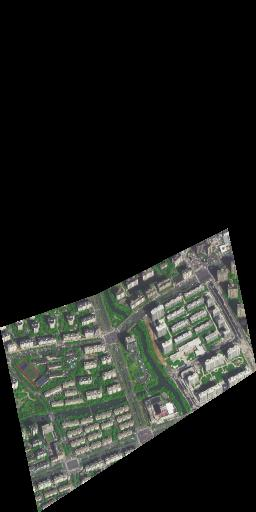
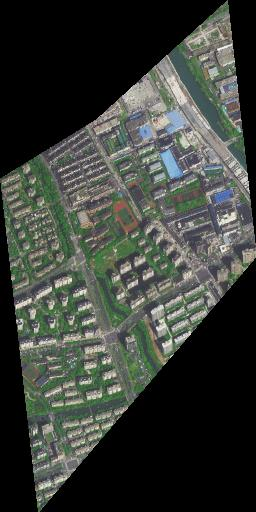
improve masked image

diff --git a/v2/img-crawl.py b/v2/img-crawl.py
@@ -131,10 +131,7 @@ def parse_aoi_file(file_path):
 
 def get_bounding_square(polygon):
     minx, miny, maxx, maxy = polygon.bounds
-    delta_x = maxx - minx
-    delta_y = maxy - miny
-    delta = max(delta_x, delta_y)
-    return box(minx, miny, minx + delta, miny + delta)
+    return box(minx, miny, maxx, maxy)
 
 
 def stitch_tiles(tile_paths, grid_size):
@@ -193,8 +190,8 @@ def main():
     for aoi in aois:
         square = aoi['bounding_square']
         lon_start, lat_start, lon_stop, lat_stop = square.bounds
-        tile_paths, grid_size = download_tiles(aoi['address'], zoom, lat_start, lat_stop, lon_start, lon_stop,
-                                               satellite)
+        tile_paths, grid_size = download_tiles(aoi['address'], zoom, lat_start, lat_stop, lon_start, lon_stop, satellite)
+
         # Stitch tiles and save the stitched image
         stitched_image = stitch_tiles(tile_paths, grid_size)
         if stitched_image:
@@ -202,8 +199,23 @@ def main():
             os.makedirs(os.path.dirname(stitched_sava_path), exist_ok=True)
             stitched_image.save(stitched_sava_path)
             logger.info(f"Stitched image saved to {stitched_sava_path}")
+
+            # # Calculate the adjusted tile bounds
+            # if grid_size[0] > 1:
+            #     tile_lon_delta = (lon_stop - lon_start) / (grid_size[0] - 1)
+            #     adjusted_lon_stop = lon_start + tile_lon_delta * grid_size[0]
+            # else:
+            #     adjusted_lon_stop = lon_stop  # 没有额外的瓦片，保持原始的stop坐标
+            #
+            # if grid_size[1] > 1:
+            #     tile_lat_delta = (lat_stop - lat_start) / (grid_size[1] - 1)
+            #     adjusted_lat_stop = lat_start + tile_lat_delta * grid_size[1]
+            # else:
+            #     adjusted_lat_stop = lat_stop  # 没有额外的瓦片，保持原始的stop坐标
+
             # Apply the mask based on AOI polygon and save the final image
             tile_bounds = (lon_start, lat_start, lon_stop, lat_stop)
+            # tile_bounds = (lon_start, lat_start, adjusted_lon_stop, adjusted_lat_stop)
             masked_sava_path = os.path.join("img/masked_images", f"{aoi['address']}.jpg")
             os.makedirs(os.path.dirname(masked_sava_path), exist_ok=True)
             apply_mask(stitched_image, aoi['polygon'], tile_bounds, masked_sava_path)

diff --git a/v2/README.md b/v2/README.md
@@ -1,6 +1,7 @@
 # Satellite Image Crawler V2
-![img.png](img.png)
+![img.png](explanation.png)
 
+![img_1.png](aoi-example.png)
 ## Description
 
 This project is a Python-based tool for crawling satellite images. It allows users to download satellite map tiles from
